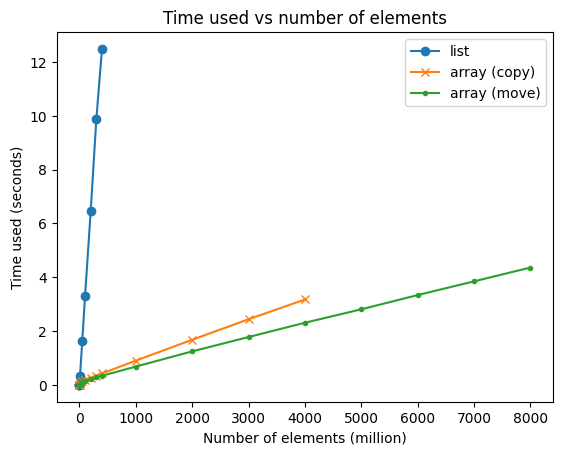
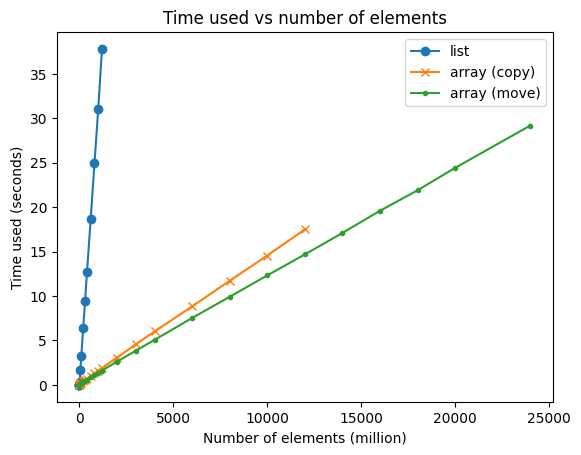
Restructure project layout to allow mixing of pure Python and compiled module
- c++ library code in /lib
- pybind11 c++/python binding code in /src
- pure python code in /src/pybind11_numpy_example
  - add example pure python function `pure_python_list()`
- replace `-` with `_` in all filenames and paths
- update plots

diff --git a/tests/python/test_pybind11_numpy_example.py b/tests/python/test_pybind11_numpy_example.py
@@ -1,16 +1,19 @@
-import pybind11numpyexample
+import pybind11_numpy_example as pne
 import numpy as np
 
 
 def test_pybind11_numpy_example():
-    assert pybind11numpyexample.vector_as_list(0) == []
-    assert pybind11numpyexample.vector_as_list(3) == [0, 1, 2]
+    assert pne.pure_python_list(0) == []
+    assert pne.pure_python_list(3) == [0, 1, 2]
 
-    a0 = pybind11numpyexample.vector_as_array(0)
+    assert pne.vector_as_list(0) == []
+    assert pne.vector_as_list(3) == [0, 1, 2]
+
+    a0 = pne.vector_as_array(0)
     assert type(a0) == np.ndarray
     assert len(a0) == 0
     assert a0.dtype == np.int16
-    a3 = pybind11numpyexample.vector_as_array(3)
+    a3 = pne.vector_as_array(3)
     assert type(a3) == np.ndarray
     assert len(a3) == 3
     assert a3.dtype == np.int16
@@ -18,11 +21,11 @@ def test_pybind11_numpy_example():
     assert a3[1] == 1
     assert a3[2] == 2
 
-    a0 = pybind11numpyexample.vector_as_array_nocopy(0)
+    a0 = pne.vector_as_array_nocopy(0)
     assert type(a0) == np.ndarray
     assert len(a0) == 0
     assert a0.dtype == np.int16
-    a3 = pybind11numpyexample.vector_as_array_nocopy(3)
+    a3 = pne.vector_as_array_nocopy(3)
     assert type(a3) == np.ndarray
     assert len(a3) == 3
     assert a3.dtype == np.int16

diff --git a/scripts/memory.py b/scripts/memory.py
@@ -2,7 +2,7 @@
 
 # simple script to print approx memory usage
 
-import pybind11numpyexample
+import pybind11_numpy_example
 import resource
 import sys
 
@@ -11,11 +11,11 @@ data_type = int(sys.argv[2])
 max_mem_before = resource.getrusage(resource.RUSAGE_SELF).ru_maxrss
 
 if data_type == 0:
-    a = pybind11numpyexample.vector_as_list(n)
+    a = pybind11_numpy_example.vector_as_list(n)
 elif data_type == 1:
-    a = pybind11numpyexample.vector_as_array(n)
+    a = pybind11_numpy_example.vector_as_array(n)
 elif data_type == 2:
-    a = pybind11numpyexample.vector_as_array_nocopy(n)
+    a = pybind11_numpy_example.vector_as_array_nocopy(n)
 
 max_mem_after = resource.getrusage(resource.RUSAGE_SELF).ru_maxrss
 

diff --git a/scripts/time.py b/scripts/time.py
@@ -2,7 +2,7 @@
 
 # simple script to print approx time taken
 
-import pybind11numpyexample
+import pybind11_numpy_example
 import timeit
 import sys
 
@@ -13,11 +13,11 @@ iters = 1 + 10000000 // n
 
 def doit():
     if data_type == 0:
-        return pybind11numpyexample.vector_as_list(n)
+        return pybind11_numpy_example.vector_as_list(n)
     elif data_type == 1:
-        return pybind11numpyexample.vector_as_array(n)
+        return pybind11_numpy_example.vector_as_array(n)
     elif data_type == 2:
-        return pybind11numpyexample.vector_as_array_nocopy(n)
+        return pybind11_numpy_example.vector_as_array_nocopy(n)
 
 
 print(timeit.timeit(doit, number=iters) / iters)

diff --git a/src/pybind11_numpy_example_python.cpp b/src/pybind11_numpy_example_python.cpp
@@ -2,7 +2,7 @@
 #include <pybind11/pybind11.h>
 #include <pybind11/stl.h>
 
-#include "pybind11-numpy-example/pybind11-numpy-example.hpp"
+#include "pybind11_numpy_example/pybind11_numpy_example.hpp"
 
 namespace py = pybind11;
 
@@ -57,7 +57,7 @@ static py::array_t<short> vector_as_array_nocopy(std::size_t size) {
   return as_pyarray(std::move(temp_vector));
 }
 
-PYBIND11_MODULE(pybind11numpyexample, m) {
+PYBIND11_MODULE(_pybind11_numpy_example, m) {
   m.doc() = "Python Bindings for pybind11-numpy-example";
   m.def("vector_as_list", &vector_as_list,
         "Returns a vector of 16-bit ints as a Python List");

diff --git a/src/pybind11_numpy_example/__init__.py b/src/pybind11_numpy_example/__init__.py
@@ -1,0 +1,7 @@
+# here we import the contents of our compiled C++ module into this package:
+from ._pybind11_numpy_example import *
+
+
+# this allows us to also include pure python code in the same namespace:
+def pure_python_list(size: int):
+    return list(range(size))

diff --git a/tests/cpp/pybind11_numpy_example_t.cpp b/tests/cpp/pybind11_numpy_example_t.cpp
@@ -1,4 +1,4 @@
-#include "pybind11-numpy-example/pybind11-numpy-example.hpp"
+#include "pybind11_numpy_example/pybind11_numpy_example.hpp"
 #include <catch2/catch_test_macros.hpp>
 
 using namespace pybind11numpyexample;

diff --git a/lib/pybind11_numpy_example.cpp b/lib/pybind11_numpy_example.cpp
@@ -1,0 +1,1 @@
+#include "pybind11_numpy_example/pybind11_numpy_example.hpp"

diff --git a/README.md b/README.md
@@ -29,9 +29,9 @@ a Numpy array is much faster and uses a lot less memory:
 
 # How
 
-The pybind11 code is in [python/pybind11-numpy-example_python.cpp](https://github.com/ssciwr/pybind11-numpy-example/blob/main/python/pybind11-numpy-example_python.cpp).
+The pybind11 code is in [src/pybind11_numpy_example_python.cpp](https://github.com/ssciwr/pybind11-numpy-example/blob/main/src/pybind11_numpy_example_python.cpp).
 
-The python project is defined in [pyproject.toml](https://github.com/ssciwr/pybind11-numpy-example/blob/main/pyproject.toml)
+The python package is defined in [pyproject.toml](https://github.com/ssciwr/pybind11-numpy-example/blob/main/pyproject.toml)
 and uses [scikit-build-core](https://github.com/scikit-build/scikit-build-core).
 
 Each tagged commit triggers a [GitHub action job](https://github.com/ssciwr/pybind11-numpy-example/actions/workflows/pypi.yml)

diff --git a/doc/index.rst b/doc/index.rst
@@ -42,7 +42,7 @@ How
 ===
 
 The pybind11 code is in
-`python/pybind11-numpy-example\_python.cpp <https://github.com/ssciwr/pybind11-numpy-example/blob/main/python/pybind11-numpy-example_python.cpp>`__.
+`src/pybind11\_numpy\_example\_python.cpp <https://github.com/ssciwr/pybind11-numpy-example/blob/main/src/pybind11_numpy_example_python.cpp>`__.
 
 The python project is defined in `pyproject.toml <https://github.com/ssciwr/pybind11-numpy-example/blob/main/pyproject.toml>`__
 and uses `scikit-build-core <https://github.com/scikit-build/scikit-build-core>`__.
